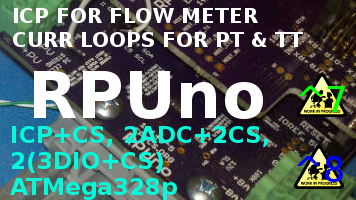
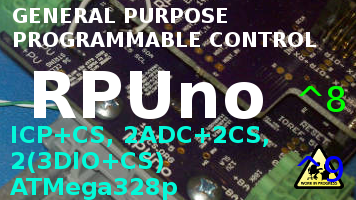
Hardware: ^9 rethink this

diff --git a/Hardware/README.md b/Hardware/README.md
@@ -73,10 +73,8 @@ Bootloader options include [optiboot] and [xboot]. Serial bootloaders can't chan
             WIP: 
             Todo: Design, Layout, BOM, Review*, Order Boards, Assembly, Testing, Evaluation.
             *during review the Design may change without changing the revision.
-            ADC2 and ADC3 on plugable 
-            Remove SPI pins from plugable
-            Remove GND from ICP1 
-            Add a high side PMOS switch to allow disconnect from a PV string.
+            RPUipc^0 is what I ended up with after trying to figure out what to do with this board.
+            TBD
 
         ^8  Done: Design, Layout, BOM, Review*, Order Boards, Assembly, Testing,
             WIP: Evaluation
